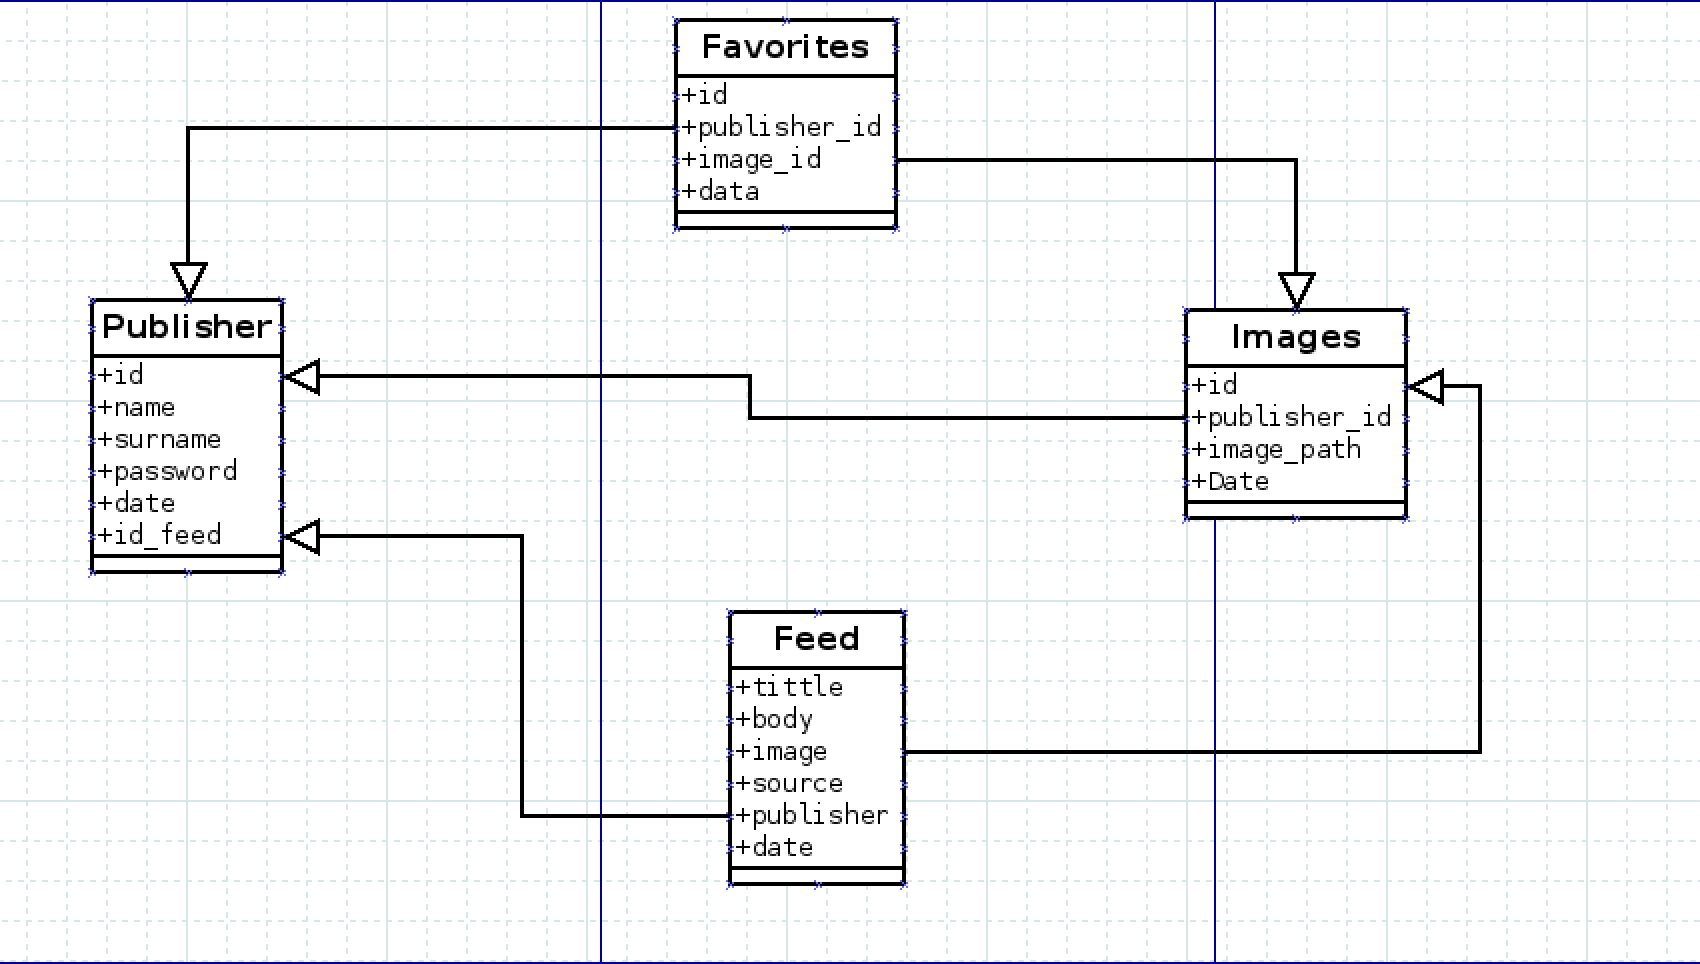
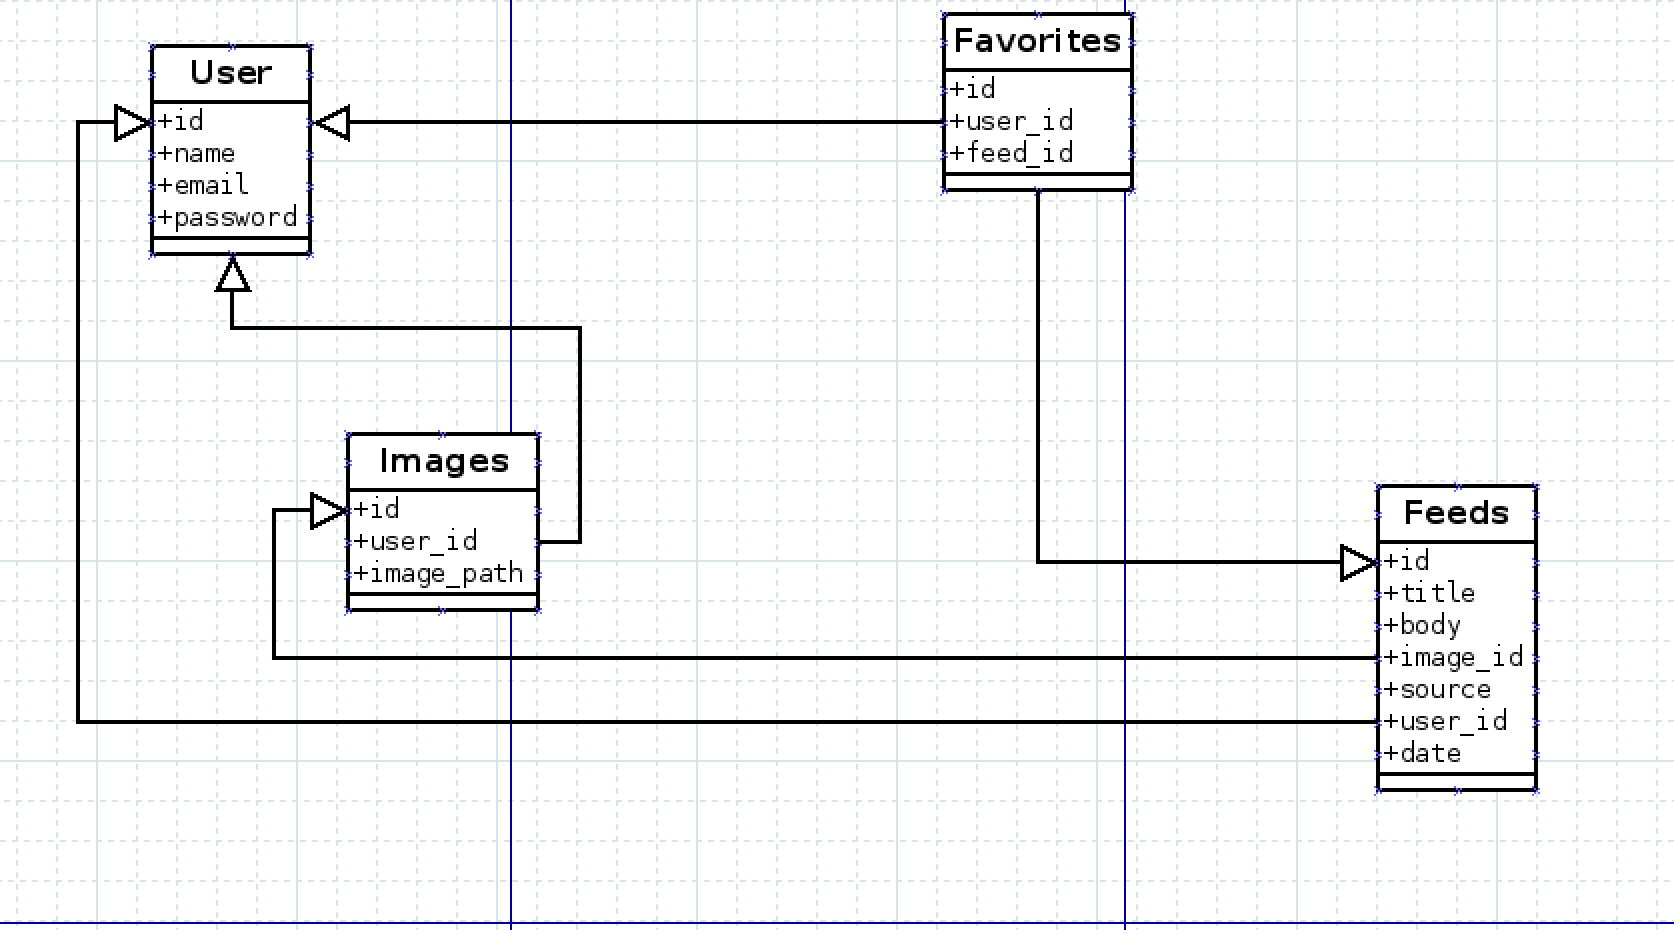
Genero la acción de subir una imagen

diff --git a/resources/views/feed/create.blade.php b/resources/views/feed/create.blade.php
@@ -1,0 +1,77 @@
+@extends('layouts.app')
+
+@section('content')
+<div class="container">
+    <div class="row justify-content-center">
+        <div class="col-md-8">
+            <div class="card">
+                <div class="card-header">Subir nueva noticia</div>
+           
+                <div class="card-body">
+                    <form method="POST" action="{{route('feed.save')}}" enctype="multipart/form-data">
+                        @csrf
+
+                        <div class="form-group row">
+                            <label for="title" class="col-md-3 col-form-label text-md-right">Titulo</label>
+                            <div class="col-md-7">
+                                <input id="title" type="text" class="form-control{{ $errors->has('title') ? ' is-invalid' : '' }}" name="title" required>
+
+                                @if ($errors->has('title'))
+                                    <span class="invalid-feedback" role="alert">
+                                        <strong>{{ $errors->first('title') }}</strong>
+                                    </span>
+                                @endif
+                            </div>
+                        </div>
+
+                        <div class="form-group row">
+                            <label for="body" class="col-md-3 col-form-label text-md-right">Descripcion</label>
+                            <div class="col-md-7">
+                                <textarea id="body" name="body" {{$errors->has('body') ? 'is-invalid' : ''}} class="form-control" ></textarea>
+                                @if($errors->has('body'))
+                                    <span class="invalid -feedback" role="alert">
+                                        <strong>{{$errors->first('body')}}</strong>
+                                    </span>
+                                @endif
+                            </div>
+                        </div>
+
+                        <div class="form-group row">
+                            <label for="image_path" class="col-md-3 col-form-label text-md-right">Imagen</label>
+                            <div class="col-md-7">
+                                <input id="image_path" type="file" name="image_path" class="form-control" {{$errors->has('image_path') ? 'is-invalid' : ''}}require/>
+                                @if($errors->has('image_path'))
+                                    <span class="invalid -feedback" role="alert">
+                                        <strong>{{$errors->first('image_path')}}</strong>
+                                    </span>
+                                @endif
+                            </div>
+                        </div>
+
+                        <div class="form-group row">
+                            <label for="source" class="col-md-3 col-form-label text-md-right">Fuente</label>
+                            <div class="col-md-7">
+                                <input id="source" type="text" class="form-control{{ $errors->has('source') ? ' is-invalid' : '' }}" name="source" required>
+
+                                @if ($errors->has('source'))
+                                    <span class="invalid-feedback" role="alert">
+                                        <strong>{{ $errors->first('source') }}</strong>
+                                    </span>
+                                @endif
+                            </div>
+                        </div>
+
+                        <div class="form-group row">
+                                <div class="col-md-6 offset-md-3">
+                                    <input type="submit" class="btn btn-primary" value="Subir noticia">
+                                </div>
+                        </div>
+
+                    </form>
+                </div>
+            </div>
+    
+        </div>
+    </div>
+</div>
+@endsection

diff --git a/app/Http/Controllers/FeedController.php b/app/Http/Controllers/FeedController.php
@@ -1,0 +1,58 @@
+<?php
+
+namespace App\Http\Controllers;
+
+use Illuminate\Http\Request;
+use Illuminate\Http\Response;
+use Illuminate\Support\Facades\Storage;
+use Illuminate\Support\Facades\File;
+use App\Feed;
+
+class FeedController extends Controller
+{
+    public function create(){
+        return view('feed.create');
+    }
+
+    public function save(Request $request){
+        
+        //validacion
+        $validate=$this->validate($request,[
+            'title'=>'required|string|max:100',
+            'body'=>'required|string|max:500',
+            'image_path'=>'required|mimes:jpg,jpeg,png,gif',
+            'source'=>'required|string|max:255',
+        ]);
+
+        //Recoger datos
+        $title=$request->input('title');
+        $body=$request->input('body');
+        $image_path=$request->file('image_path');
+        $source=$request->input('source');
+
+        //Asignar valores al objeto
+        $now = new \DateTime();
+
+        $user=\Auth::user();
+        $feed=new Feed();
+        $feed->title=$title;
+        $feed->body=$body;
+        $feed->source=$source;
+        $feed->user_id=$user->id;
+        $feed->date=$now;
+
+        //Subir fichero
+        if($image_path){
+            $image_path_name=time().$image_path->getClientOriginalName();
+            Storage::disk('images')->put($image_path_name, File::get($image_path));
+            $feed->imagen=$image_path_name;
+        }
+
+        $feed->save();
+
+        return redirect()->route('home')->with([
+            'message'=>'La noticia se ha sido subida correctamente!!'
+        ]);
+       
+    }
+}

diff --git a/resources/views/layouts/app.blade.php b/resources/views/layouts/app.blade.php
@@ -48,6 +48,19 @@
                                 <a class="nav-link" href="{{ route('register') }}">{{ __('Register') }}</a>
                             </li>
                         @else
+
+                            <li class="nav-item">
+                                <a class="nav-link" href="{{ route('home')}}">Inicio</a>
+                            </li>
+                            <li class="nav-item">
+                                    <a class="nav-link" href="{{ route('feed.create')}}">Subir noticia</a>
+                            </li>
+                            <li class="nav-item">
+                                    <a class="nav-link" href="">Favoritas</a>
+                            </li>
+                            <li>
+                                &nbsp; &nbsp;
+                            </li>
                             <li class="nav-item dropdown">
                                 <a id="navbarDropdown" class="nav-link dropdown-toggle" href="#" role="button" data-toggle="dropdown" aria-haspopup="true" aria-expanded="false" v-pre>
                                     {{ Auth::user()->name }} <span class="caret"></span>

diff --git a/app/User.php b/app/User.php
@@ -15,8 +15,10 @@ class User extends Authenticatable
      * @var array
      */
     protected $fillable = [
-        'name', 'email', 'password',
+        'name','email', 'password','id_feel','date',
     ];
+
+    public $timestamps = false;
 
     /**
      * The attributes that should be hidden for arrays.
@@ -26,4 +28,20 @@ class User extends Authenticatable
     protected $hidden = [
         'password', 'remember_token',
     ];
+
+    //Relación de uno a muchos
+    public function images(){
+        return $this->hasMany('App\Image');
+    }
+
+    //Relación de uno a muchos
+    public function favorites(){
+        return $this->hasMany('App\Favorite');
+    }
+
+    //Relación de uno a muchos
+    public function feeds(){
+        return $this->hasMany('App\Feed');
+    }
+
 }

diff --git a/resources/views/home.blade.php b/resources/views/home.blade.php
@@ -4,19 +4,7 @@
 <div class="container">
     <div class="row justify-content-center">
         <div class="col-md-8">
-            <div class="card">
-                <div class="card-header">Dashboard</div>
-
-                <div class="card-body">
-                    @if (session('status'))
-                        <div class="alert alert-success" role="alert">
-                            {{ session('status') }}
-                        </div>
-                    @endif
-
-                    You are logged in!
-                </div>
-            </div>
+            @include('includes.message')
         </div>
     </div>
 </div>

diff --git a/app/Favorite.php b/app/Favorite.php
@@ -4,15 +4,15 @@ namespace App;
 
 use Illuminate\Database\Eloquent\Model;
 
-class Like extends Model
+class Favorite extends Model
 {
     protected $table='favorites';
 
     public $timestamps = false;
 
     //Relación de Muchos a Uno
-    public function publisher(){
-        return $this->belongsTo('App\Publisher', 'publisher_id');
+    public function user(){
+        return $this->belongsTo('App\User', 'user_id');
     }
 
     //Relación de muchos a uno

diff --git a/app/Feed.php b/app/Feed.php
@@ -8,14 +8,11 @@ class Feed extends Model
 {
     protected $table='feeds';
 
+    public $timestamps = false;
+
     //Relación de Muchos a Uno
     public function user(){
-        return $this->belongsTo('App\Publisher', 'publisher');
-    }
-
-    //Relación de uno a muchos
-    public function image(){
-        return $this->hasMany('App\Image');
+        return $this->belongsTo('App\User', 'user_id');
     }
 
    

diff --git a/config/filesystems.php b/config/filesystems.php
@@ -64,6 +64,13 @@ return [
             'url' => env('AWS_URL'),
         ],
 
+        'images' => [
+            'driver' => 'local',
+            'root' => storage_path('app/feeds'),
+            'url' => env('APP_URL').'/storage',
+            'visibility' => 'public',
+        ],
+
     ],
 
 ];

diff --git a/routes/web.php b/routes/web.php
@@ -18,3 +18,5 @@ Route::get('/', function () {
 Auth::routes();
 
 Route::get('/', 'HomeController@index')->name('home');
+Route::get('/subir-noticia', 'FeedController@create')->name('feed.create');
+Route::post('/feed/save', 'FeedController@save')->name('feed.save');

diff --git a/app/Http/Controllers/Auth/RegisterController.php b/app/Http/Controllers/Auth/RegisterController.php
@@ -28,7 +28,7 @@ class RegisterController extends Controller
      *
      * @var string
      */
-    protected $redirectTo = '/home';
+    protected $redirectTo = '/';
 
     /**
      * Create a new controller instance.

diff --git a/resources/views/includes/message.blade.php b/resources/views/includes/message.blade.php
@@ -1,0 +1,5 @@
+@if(session('message'))
+    <div class="alert alert-success">
+        {{session('message')}}
+    </div>
+@endif
